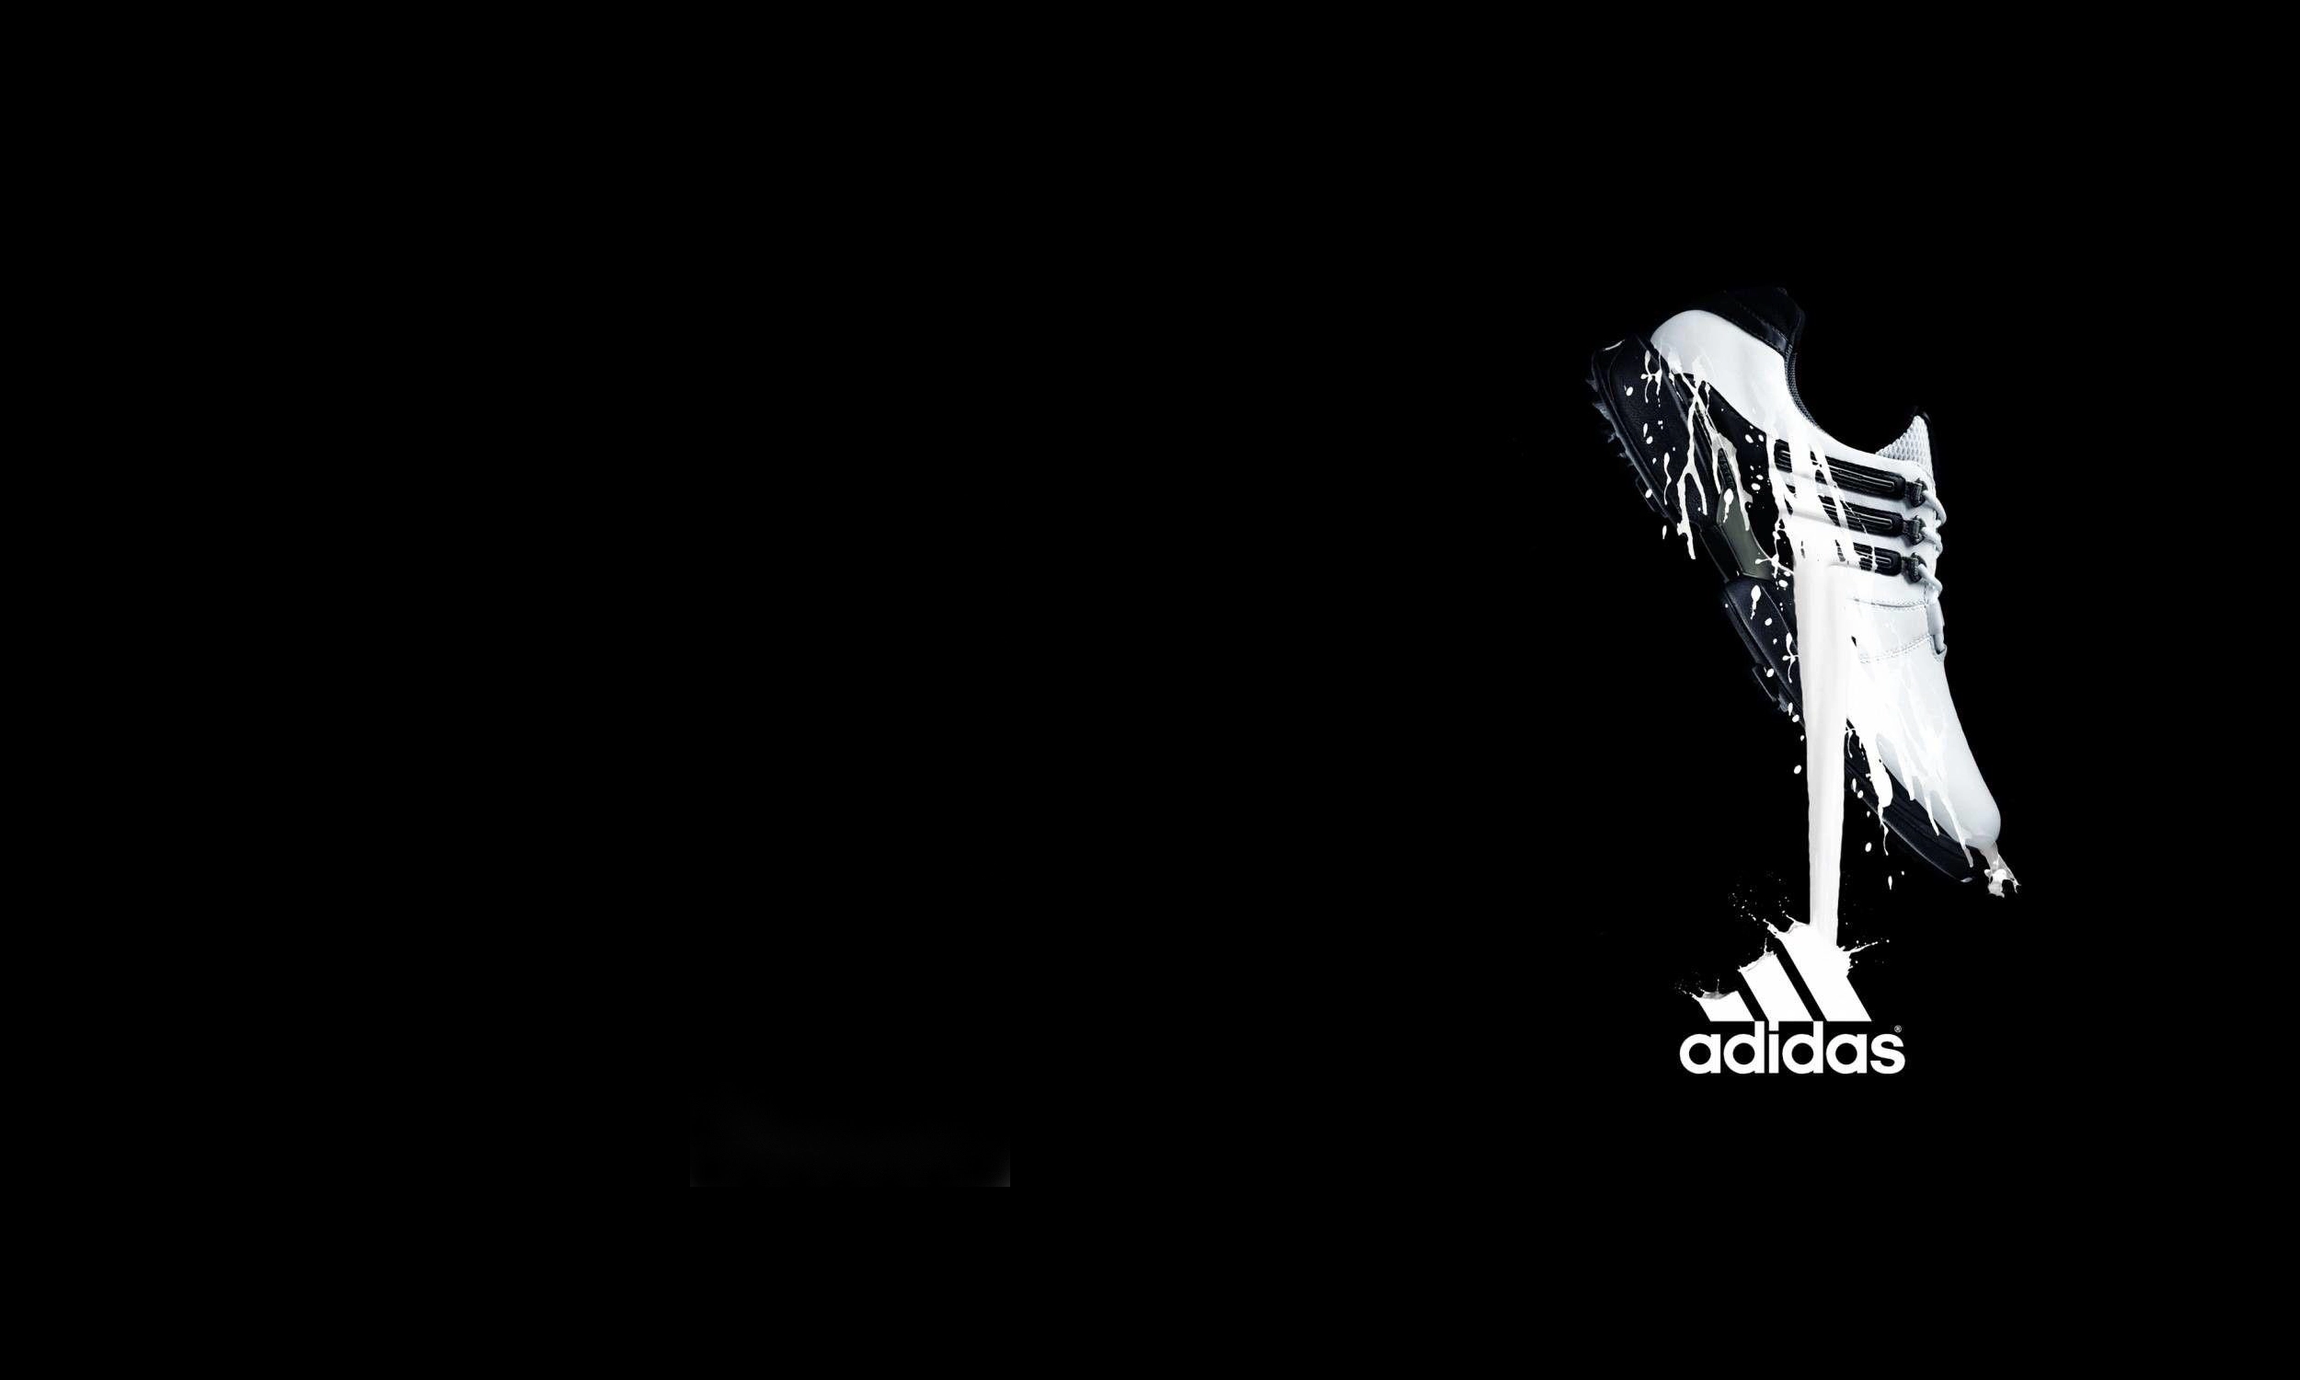
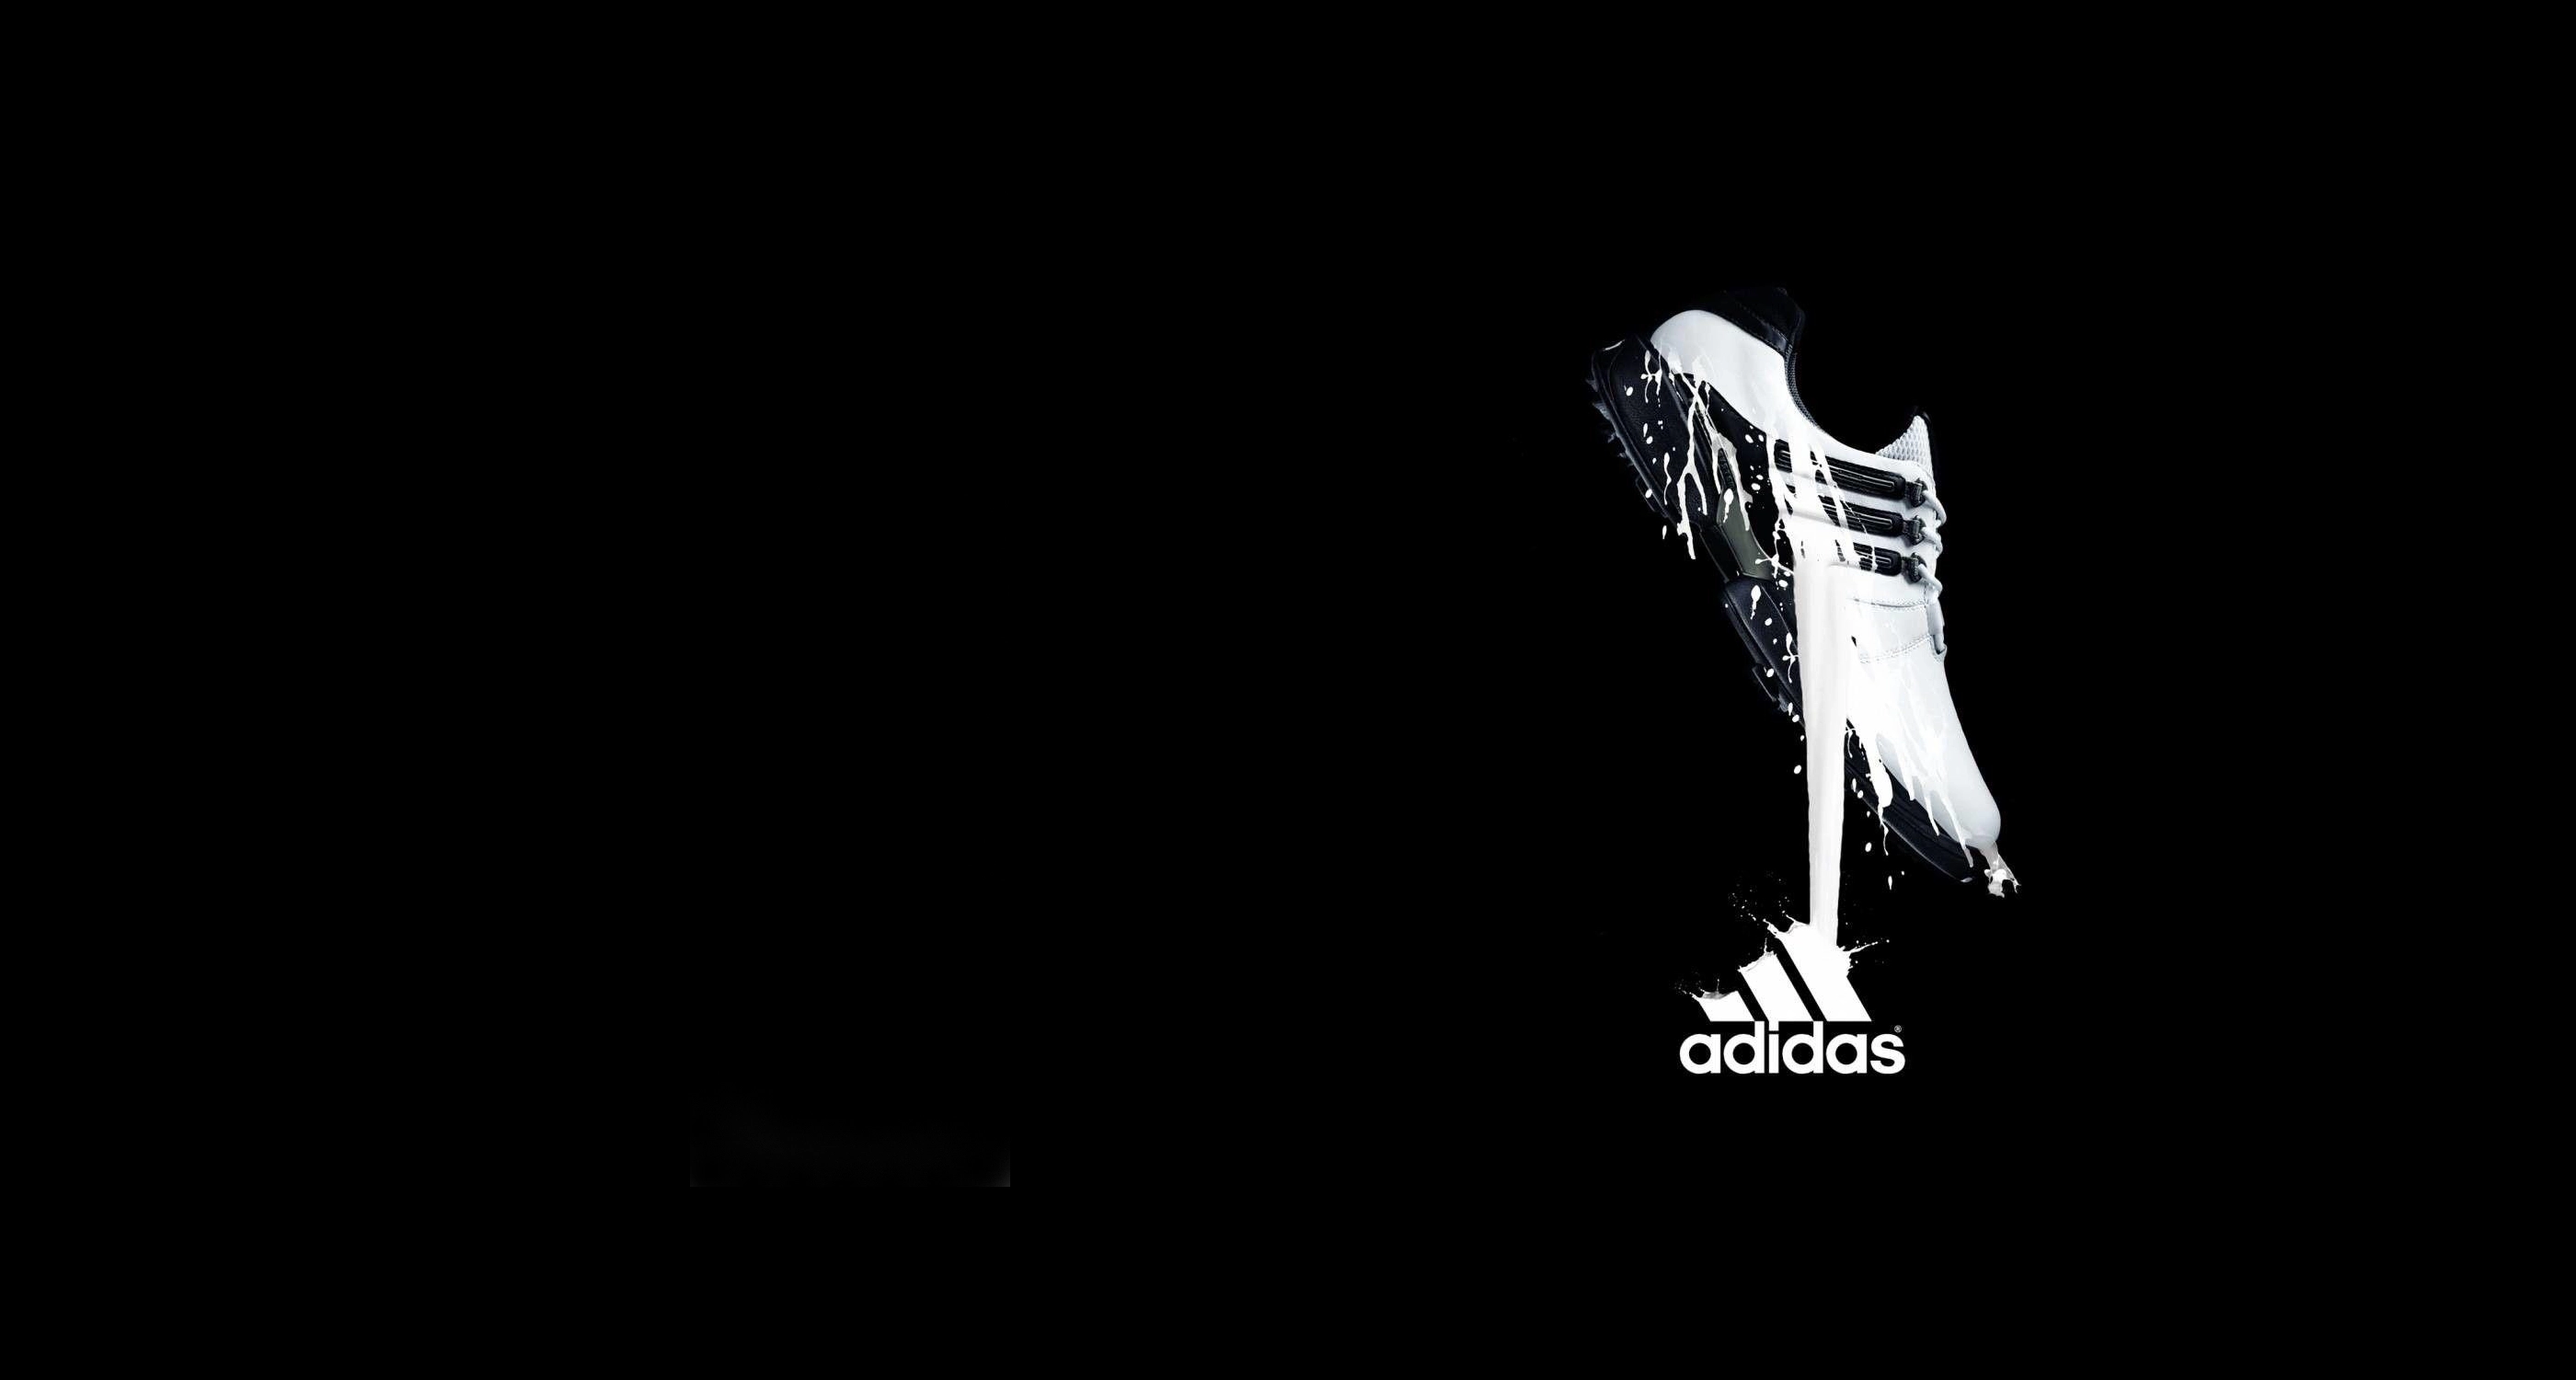
style: repsonsive layout added

Changed region(s): [[0.624, 0.2147, 0.8736, 0.7973]]

diff --git a/src/components/hero/Hero.tsx b/src/components/hero/Hero.tsx
@@ -6,16 +6,23 @@ import Image from 'next/image'
 
 export const Hero = () => {
   const SlidesJsx = slideImages.map(({ key, image, alt, text }) => (
-    <div key={key} className="slide-container w-full h-[620px] relative">
+    <div
+      key={key}
+      className="slide-container w-full h-[250px] md:h-[500px] lg:h-[620px] relative"
+    >
       <Image
         src={`/slideImages/${image}`}
         alt={alt}
         fill
         style={{ objectFit: 'cover' }}
       />
-      <div className="absolute flex flex-col justify-center items-start left-32 max-w-md h-full">
-        <p className=" text-white font-bold text-7xl ">{text}</p>
-        <button className="bg-white px-4 py-2 rounded my-8">Shop Now</button>
+      <div className="absolute flex flex-col justify-center items-center lg:items-start lg:left-32 lg:max-w-md h-full w-full">
+        <p className="text-center lg:text-left font-bold text-3xl md:text-5xl lg:text-7xl text-white mx-8 md:mx-60 lg:mx-0">
+          {text}
+        </p>
+        <button className="bg-white px-4 py-2 rounded my-4 md:my-8">
+          Shop Now
+        </button>
       </div>
     </div>
   ))
